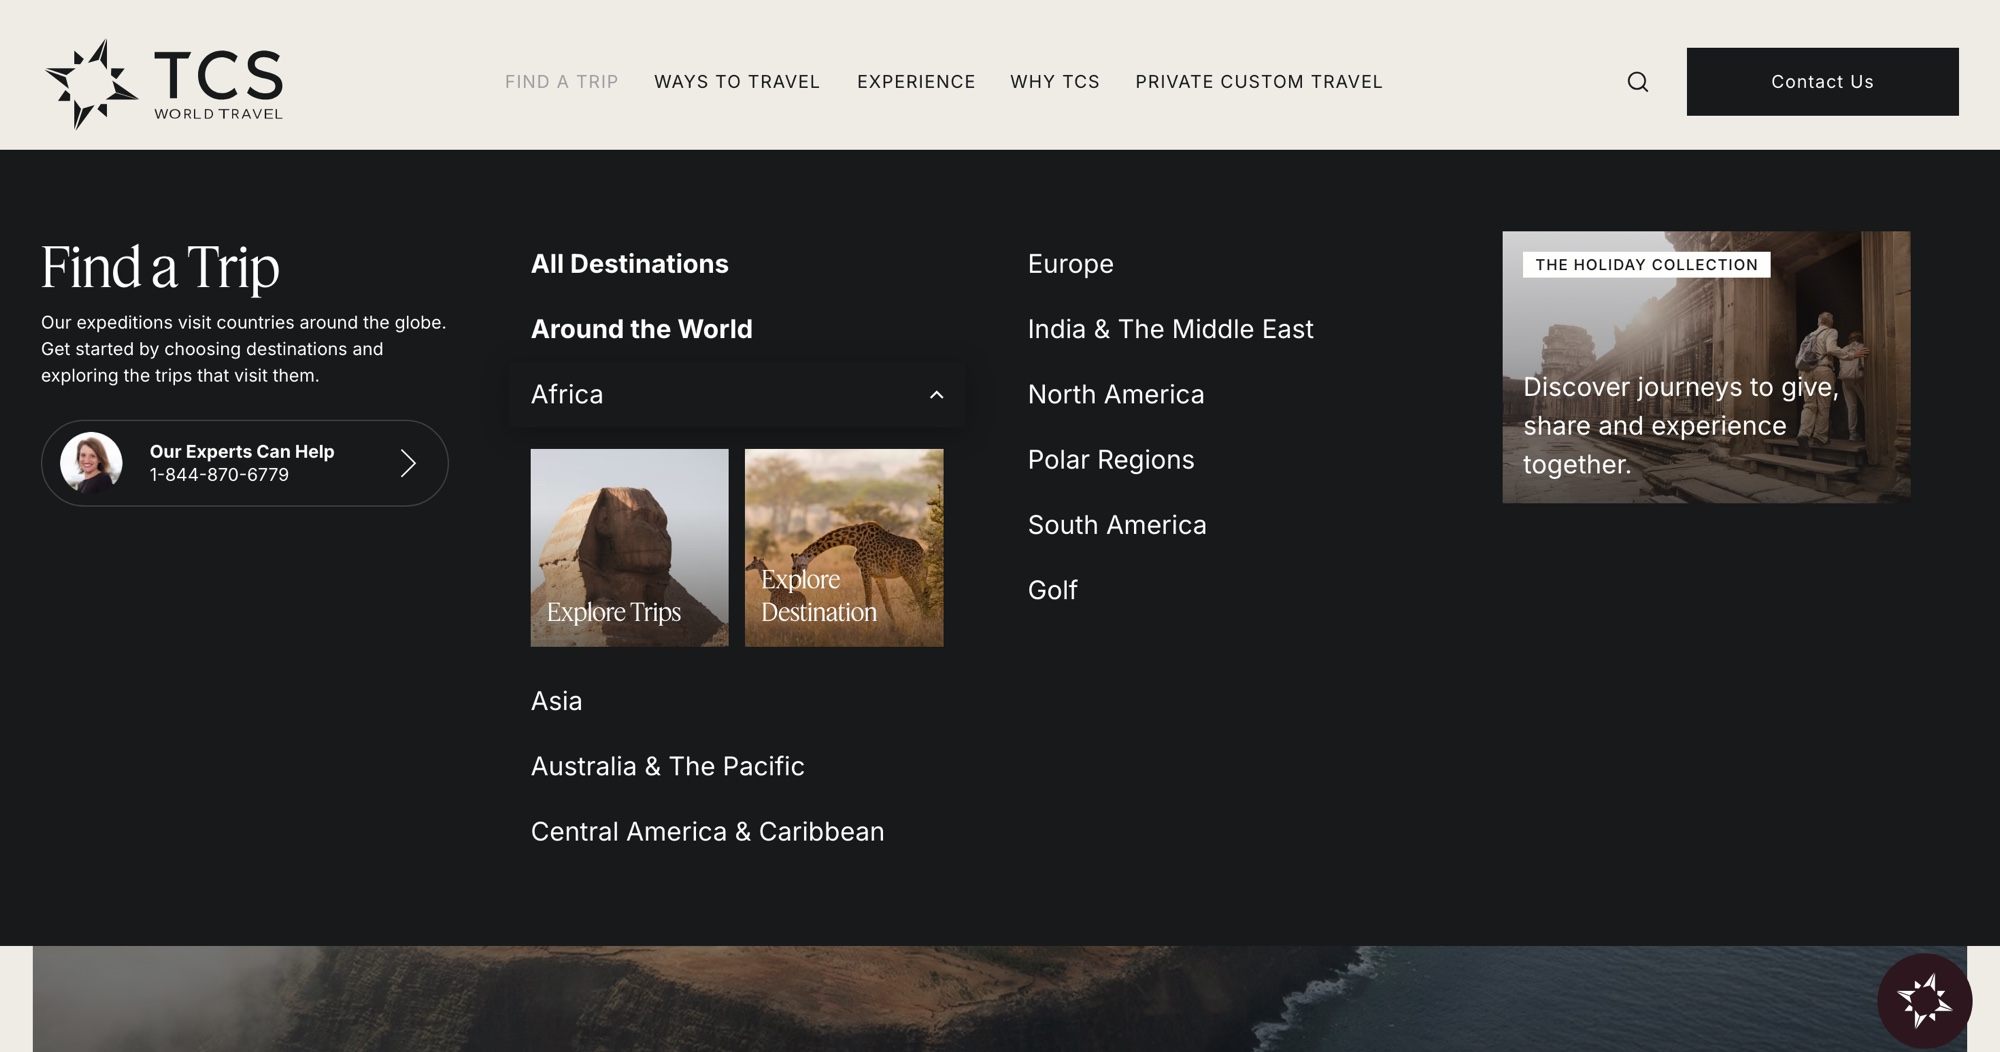
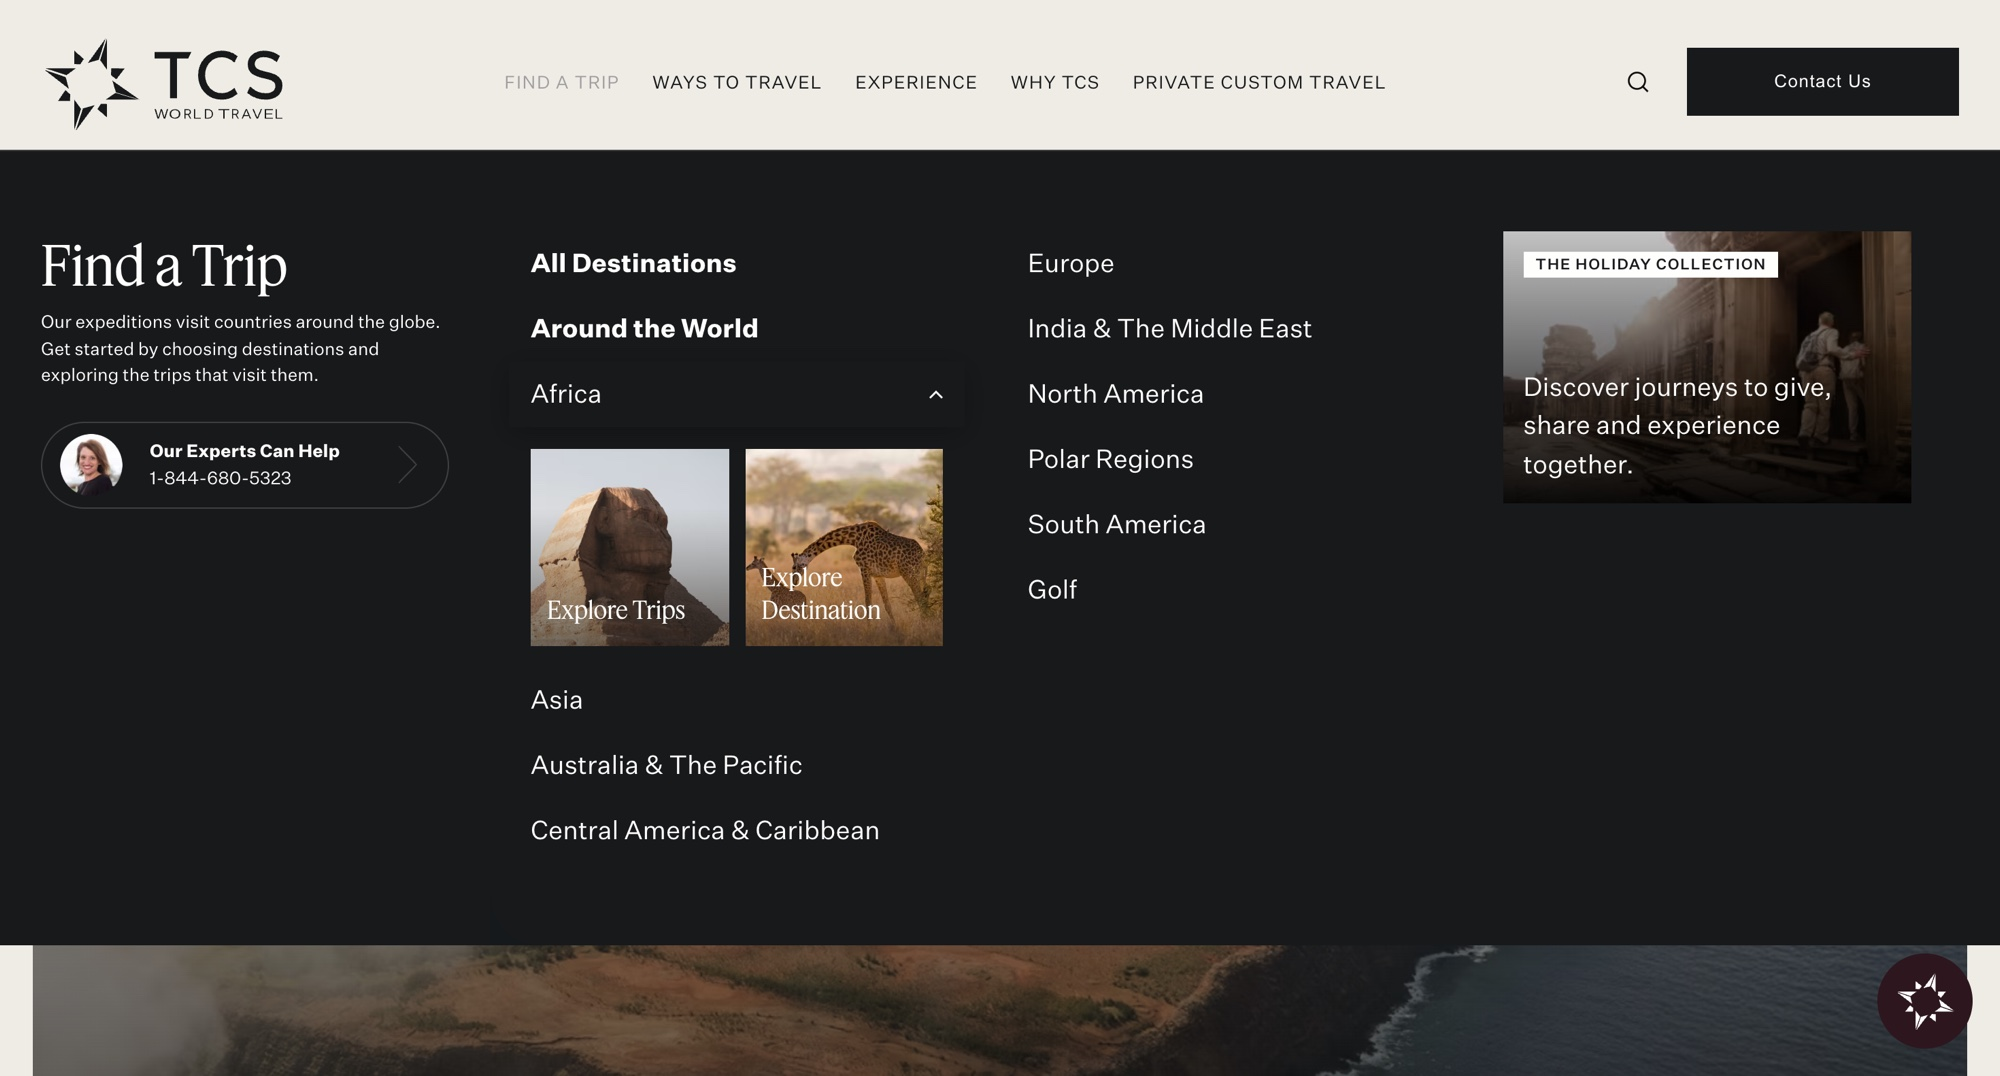
Trip vs Destination slider: both frames from the live site, footer follows the handle
Before and after are both captured from tcsworldtravel.com at 1470 wide (hero video held on
one frame): the after only adds Africa's open state and the two image cards, so every other
pixel matches. The footer names the side that fills most of the picture and crossfades.

diff --git a/src/components/case-study/BeforeAfterSlider.tsx b/src/components/case-study/BeforeAfterSlider.tsx
@@ -18,8 +18,9 @@ import { useCallback, useEffect, useRef, useState } from "react";
  *
  * Look: the picture sits in the case study card (white, 8px inset, 4px frame) like the other
  * visuals. The handle is a thin white line with a round grip that lifts on hover and presses
- * in while dragged. No labels on the picture: the footer names each side under its own half
- * (before left, after right) with a quiet "Drag to compare" between them.
+ * in while dragged. No labels on the picture: one footer line names the side that fills most
+ * of it (past 55% the before, under 45% the after, "Drag to compare" between) and crossfades
+ * as the handle moves.
  */
 type Shot = { src: string; alt: string };
 type Side = { title: string; note: string };
@@ -54,6 +55,16 @@ export default function BeforeAfterSlider({
   const box = useRef<HTMLDivElement>(null);
   const anim = useRef<number | null>(null);
   const touched = useRef(false);
+  // Which side the footer names: the one that fills most of the picture. A 3% margin either
+  // side of each threshold keeps it from flickering when the handle rests on the line.
+  const [side, setSide] = useState<"before" | "after" | null>(start >= 55 ? "before" : start <= 45 ? "after" : null);
+  useEffect(() => {
+    setSide((s) => {
+      if (pos >= (s === "before" ? 52 : 55)) return "before";
+      if (pos <= (s === "after" ? 48 : 45)) return "after";
+      return null;
+    });
+  }, [pos]);
 
   const setPos = (n: number) => {
     posRef.current = n;
@@ -186,20 +197,36 @@ export default function BeforeAfterSlider({
         </div>
       </div>
       {labels && (
-        <figcaption className="grid grid-cols-2 items-start gap-[16px] px-[12px] pb-[8px] pt-[16px] md:grid-cols-[1fr_auto_1fr] md:px-[16px]">
-          <span className="flex flex-col gap-[2px]">
-            <span className="font-body text-body font-medium text-heading md:text-body-md">{labels.before.title}</span>
-            <span className="font-body text-caption-lg text-muted">{labels.before.note}</span>
-          </span>
-          <span aria-hidden="true" className="hidden items-center gap-[6px] self-center font-geist text-caption-md font-medium uppercase tracking-[1px] text-muted md:flex">
-            <svg width="16" height="16" viewBox="0 0 24 24" fill="none" stroke="currentColor" strokeWidth="2" strokeLinecap="round" strokeLinejoin="round">
+        // One line under the picture, naming the side that fills most of it; the three states
+        // share one grid cell and crossfade with a small lift
+        <figcaption aria-live="polite" className="grid px-[12px] pb-[8px] pt-[16px] md:px-[16px]">
+          {(
+            [
+              ["before", <>{"\u2190 "}{labels.before.title}</>, labels.before.note],
+              ["after", <>{labels.after.title}{" \u2192"}</>, labels.after.note],
+            ] as const
+          ).map(([key, title, note]) => (
+            <span
+              key={key}
+              aria-hidden={side !== key}
+              className={`col-start-1 row-start-1 flex flex-col items-center gap-[2px] text-center transition-[opacity,transform,filter] duration-300 ease-[cubic-bezier(0.2,0.7,0.2,1)] motion-reduce:transition-none ${
+                side === key ? "translate-y-0 opacity-100 blur-0" : "pointer-events-none translate-y-[4px] opacity-0 blur-[2px]"
+              }`}
+            >
+              <span className="font-body text-body font-medium text-heading md:text-body-md">{title}</span>
+              <span className="font-body text-caption-lg text-muted">{note}</span>
+            </span>
+          ))}
+          <span
+            aria-hidden={side !== null}
+            className={`col-start-1 row-start-1 flex items-center justify-center gap-[6px] self-center font-geist text-caption-md font-medium uppercase tracking-[1px] text-muted transition-[opacity,transform,filter] duration-300 ease-[cubic-bezier(0.2,0.7,0.2,1)] motion-reduce:transition-none ${
+              side === null ? "translate-y-0 opacity-100 blur-0" : "pointer-events-none translate-y-[4px] opacity-0 blur-[2px]"
+            }`}
+          >
+            <svg width="16" height="16" viewBox="0 0 24 24" fill="none" stroke="currentColor" strokeWidth="2" strokeLinecap="round" strokeLinejoin="round" aria-hidden="true">
               <path d="m8 7-5 5 5 5M16 7l5 5-5 5M3 12h18" />
             </svg>
             Drag to compare
-          </span>
-          <span className="flex flex-col items-end gap-[2px] text-right">
-            <span className="font-body text-body font-medium text-heading md:text-body-md">{labels.after.title}</span>
-            <span className="font-body text-caption-lg text-muted">{labels.after.note}</span>
           </span>
         </figcaption>
       )}

diff --git a/src/app/works/tcs-find-a-trip/page.tsx b/src/app/works/tcs-find-a-trip/page.tsx
@@ -72,15 +72,15 @@ function Overview() {
         />
       </Copy>
       <Visual>
-        {/* Before: the live site; after: the prototype laid out to match it at the same window
-            (1470 wide), so only the change moves.
+        {/* Both frames are the live site at 1470 wide: the before as it is (Africa hovered), the
+            after with Africa open and the two image cards added under it, so only the change moves.
             The handle rests left of the continent column, so the new choice shows first; the
             first-view sweep crosses Africa and back */}
         <BeforeAfterSlider
           width={2000}
-          height={1052}
+          height={1076}
           start={24}
-          sweepTo={56}
+          sweepTo={64}
           before={{ src: "/images/tcs-find-a-trip/compare-before.jpg", alt: "today's menu, where Africa goes straight to a list of trips" }}
           after={{ src: "/images/tcs-find-a-trip/compare-after.jpg", alt: "the new menu, where Africa opens Explore Trips and Explore Destination" }}
           labels={{
